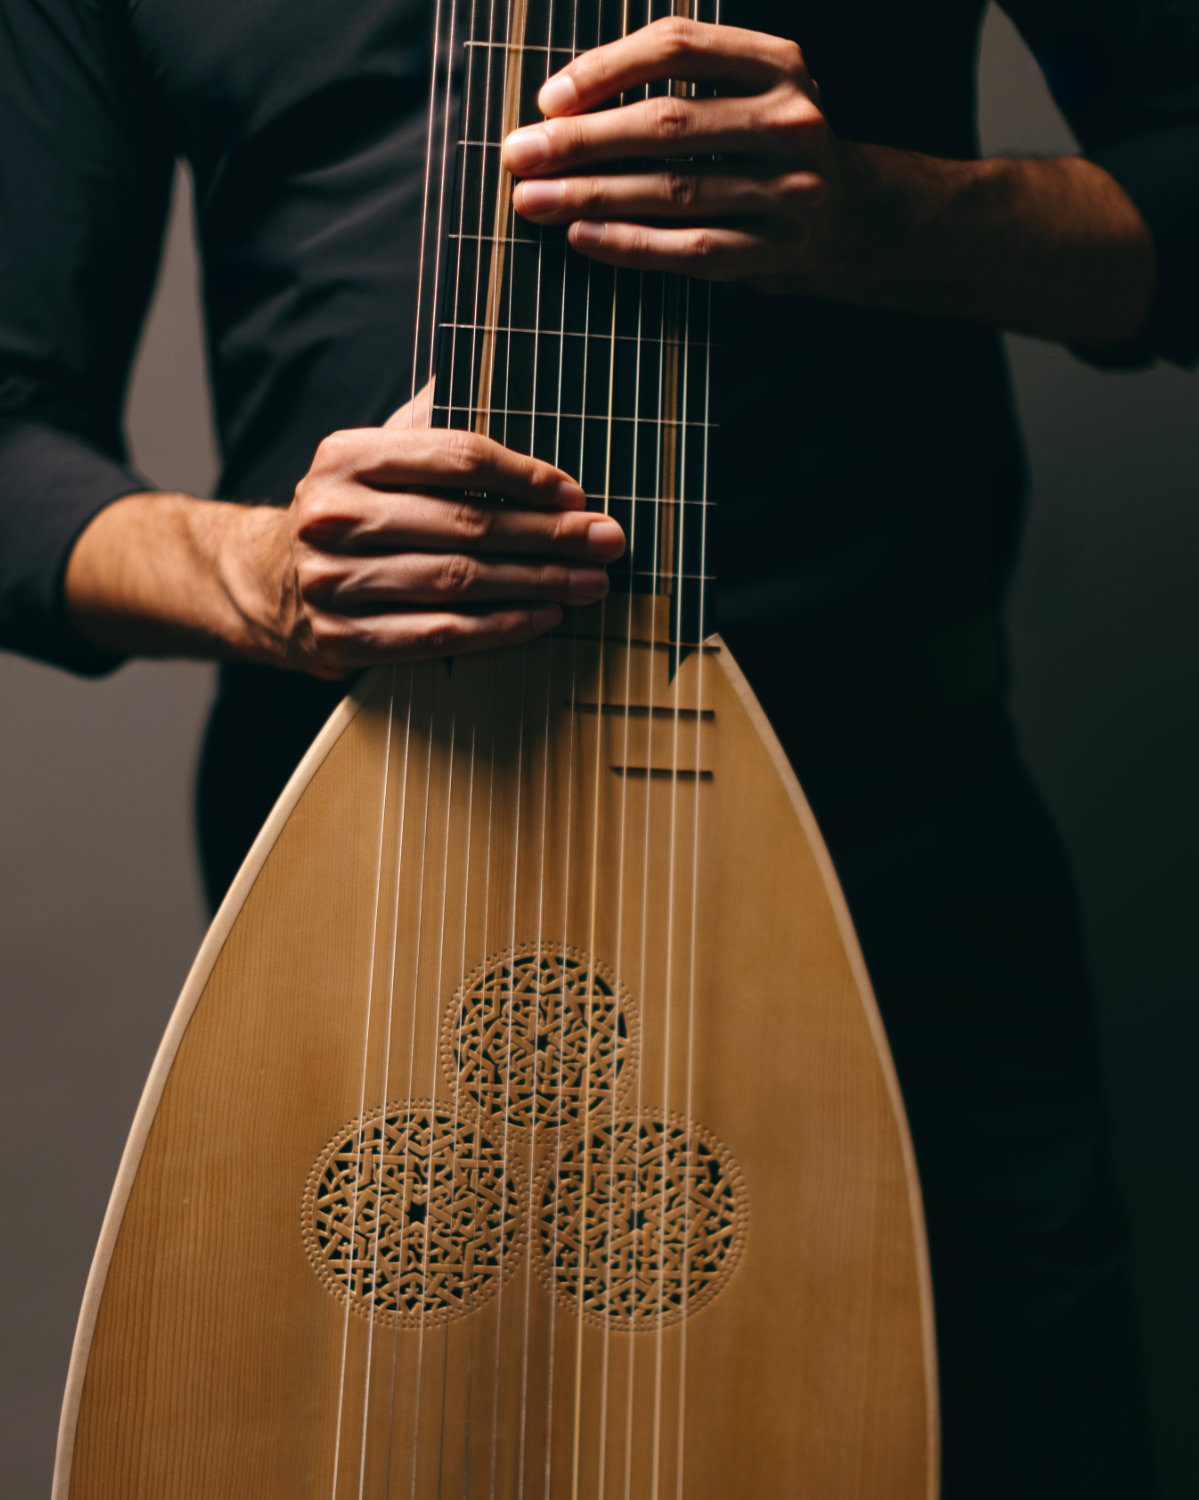
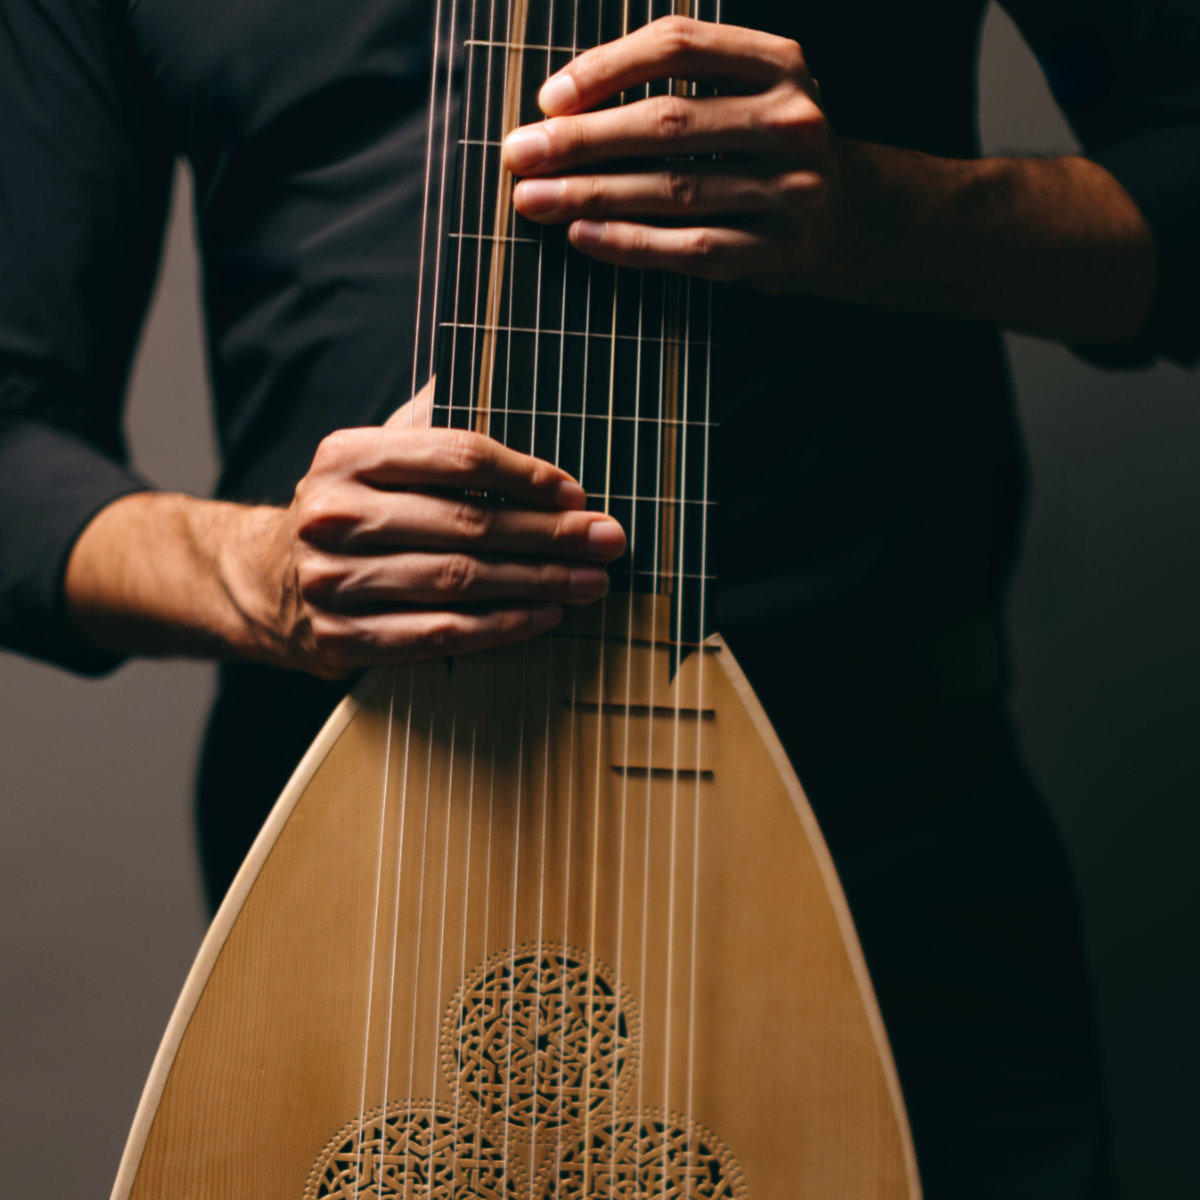
bio changes with photo

diff --git a/assets/js/main.js b/assets/js/main.js
@@ -11,11 +11,10 @@
       'nav.home':'Início','nav.about':'Sobre','nav.guitar':'Guitarra','nav.lute':'Alaúde',
       'nav.dates':'Datas','nav.contact':'Contacto','nav.video':'Vídeo',
       'hero.eyebrow':'Guitarra Clássica & Alaúde · Viena','hero.cta':'Próximos concertos →',
-      'home.more':'Ver mais →',
       'home.about':'André Ferreira é um guitarrista e alaudista português radicado em Viena, atuando por toda a Europa como solista, músico de câmara e instrumentista de orquestra.',
-      'home.guitar':'Repertório, instrumentos e projetos em torno da guitarra clássica.',
-      'home.lute':'Alaúde, teorba e instrumentos históricos de corda dedilhada.',
-      'home.contact':'Reservas, masterclasses e pedidos de imprensa.',
+      'home.about.d':'Biografia, formação e as salas e festivais onde tem atuado.',
+      'home.guitar.d':'Repertório, instrumentos e projetos em torno da guitarra clássica.',
+      'home.lute.d':'Alaúde, teorba e outros instrumentos históricos de corda dedilhada.',
       'home.dates.h':'Próximos Concertos','home.dates.all':'Todas as datas →',
       'bio.body':
         '<p>André Ferreira é um guitarrista e alaudista português radicado em Viena. Músico versátil, com uma sólida formação tanto na performance histórica como na moderna, o seu tocar reflete um envolvimento profundo com as possibilidades expressivas das cordas dedilhadas.</p>' +
@@ -38,11 +37,10 @@
       'nav.home':'Home','nav.about':'About','nav.guitar':'Guitar','nav.lute':'Lute',
       'nav.dates':'Dates','nav.contact':'Contact','nav.video':'Video',
       'hero.eyebrow':'Classical Guitar & Lute · Vienna','hero.cta':'Upcoming concerts →',
-      'home.more':'Read more →',
       'home.about':'André Ferreira is a Portuguese guitarist and lutenist based in Vienna, performing across Europe as a soloist, chamber musician and orchestral player.',
-      'home.guitar':'Repertoire, instruments and projects on the classical guitar.',
-      'home.lute':'Lute, theorbo and historical plucked string instruments.',
-      'home.contact':'Booking, masterclasses and press enquiries.',
+      'home.about.d':'Biography, training, and the halls and festivals he has played.',
+      'home.guitar.d':'Repertoire, instruments and projects on the classical guitar.',
+      'home.lute.d':'Lute, theorbo and other historical plucked string instruments.',
       'home.dates.h':'Upcoming Concerts','home.dates.all':'All dates →',
       'bio.body':
         '<p>André Ferreira is a Portuguese guitarist and lutenist based in Vienna. A versatile musician with a strong foundation in both historical and modern performance, his playing reflects a deep engagement with the expressive possibilities of plucked strings.</p>' +
@@ -65,11 +63,10 @@
       'nav.home':'Start','nav.about':'Über','nav.guitar':'Gitarre','nav.lute':'Laute',
       'nav.dates':'Termine','nav.contact':'Kontakt','nav.video':'Video',
       'hero.eyebrow':'Klassische Gitarre & Laute · Wien','hero.cta':'Kommende Konzerte →',
-      'home.more':'Mehr lesen →',
       'home.about':'André Ferreira ist ein portugiesischer Gitarrist und Lautenist mit Sitz in Wien und tritt in ganz Europa als Solist, Kammermusiker und Orchestermusiker auf.',
-      'home.guitar':'Repertoire, Instrumente und Projekte rund um die klassische Gitarre.',
-      'home.lute':'Laute, Theorbe und historische Zupfinstrumente.',
-      'home.contact':'Buchung, Meisterkurse und Presseanfragen.',
+      'home.about.d':'Biografie, Ausbildung und die Säle und Festivals, in denen er gespielt hat.',
+      'home.guitar.d':'Repertoire, Instrumente und Projekte rund um die klassische Gitarre.',
+      'home.lute.d':'Laute, Theorbe und weitere historische Zupfinstrumente.',
       'home.dates.h':'Kommende Konzerte','home.dates.all':'Alle Termine →',
       'bio.body':
         '<p>André Ferreira ist ein portugiesischer Gitarrist und Lautenist mit Sitz in Wien. Als vielseitiger Musiker mit einem soliden Fundament in historischer wie moderner Aufführungspraxis zeugt sein Spiel von einer tiefen Auseinandersetzung mit den Ausdrucksmöglichkeiten der Zupfinstrumente.</p>' +

diff --git a/index.html b/index.html
@@ -42,27 +42,27 @@
     </div>
   </section>
 
-  <section class="teasers">
-    <a class="teaser" href="pages/about.html">
-      <h2 data-i18n="nav.about">Sobre</h2>
-      <p data-i18n="home.about">André Ferreira é um guitarrista e alaudista português radicado em Viena, atuando por toda a Europa como solista, músico de câmara e instrumentista de orquestra.</p>
-      <span class="more" data-i18n="home.more">Ver mais →</span>
-    </a>
-    <a class="teaser" href="pages/guitar.html">
-      <h2 data-i18n="nav.guitar">Guitarra</h2>
-      <p data-i18n="home.guitar">Repertório, instrumentos e projetos em torno da guitarra clássica.</p>
-      <span class="more" data-i18n="home.more">Ver mais →</span>
-    </a>
-    <a class="teaser" href="pages/lute.html">
-      <h2 data-i18n="nav.lute">Alaúde</h2>
-      <p data-i18n="home.lute">Alaúde, teorba e instrumentos históricos de corda dedilhada.</p>
-      <span class="more" data-i18n="home.more">Ver mais →</span>
-    </a>
-    <a class="teaser" href="pages/contact.html">
-      <h2 data-i18n="nav.contact">Contacto</h2>
-      <p data-i18n="home.contact">Reservas, masterclasses e pedidos de imprensa.</p>
-      <span class="more" data-i18n="home.more">Ver mais →</span>
-    </a>
+  <section class="intro">
+    <div class="intro-photo">
+      <img src="assets/img/bio.jpg" alt="André Ferreira a tocar alaúde" loading="lazy">
+    </div>
+    <div class="intro-body">
+      <p class="intro-text" data-i18n="home.about">André Ferreira é um guitarrista e alaudista português radicado em Viena, atuando por toda a Europa como solista, músico de câmara e instrumentista de orquestra.</p>
+      <div class="intro-links">
+        <a class="ilink" href="pages/about.html">
+          <span class="ilabel" data-i18n="nav.about">Sobre</span>
+          <span class="idesc" data-i18n="home.about.d">Biografia, formação e as salas e festivais onde tem atuado.</span>
+        </a>
+        <a class="ilink" href="pages/guitar.html">
+          <span class="ilabel" data-i18n="nav.guitar">Guitarra</span>
+          <span class="idesc" data-i18n="home.guitar.d">Repertório, instrumentos e projetos em torno da guitarra clássica.</span>
+        </a>
+        <a class="ilink" href="pages/lute.html">
+          <span class="ilabel" data-i18n="nav.lute">Alaúde</span>
+          <span class="idesc" data-i18n="home.lute.d">Alaúde, teorba e outros instrumentos históricos de corda dedilhada.</span>
+        </a>
+      </div>
+    </div>
   </section>
 
   <section class="concerts-wrap">

diff --git a/assets/css/style.css b/assets/css/style.css
@@ -109,15 +109,26 @@ radial-gradient(circle at 68% 32%, #3a322a 0%, #1c1712 62%, #100d0a 100%); }
 .page-head h1{ font-family:var(--font-display); font-weight:400; font-size:clamp(2.4rem,6vw,4rem);
   line-height:1; letter-spacing:.02em; text-transform:uppercase; margin:0; }
 
-/* home: one card per section, each linking to its page */
-.teasers{ padding:clamp(44px,7vw,72px) var(--pad); display:grid; gap:1px;
-  grid-template-columns:repeat(auto-fit,minmax(260px,1fr)); background:var(--line); border-top:1px solid var(--line); }
-.teaser{ background:var(--bg); padding:clamp(24px,3vw,34px); text-decoration:none; color:inherit;
-  display:flex; flex-direction:column; gap:12px; transition:background .18s; }
-.teaser:hover, .teaser:focus-visible{ background:#141210; }
-.teaser h2{ font-family:var(--font-display); font-weight:500; font-size:1.6rem; margin:0; }
-.teaser p{ margin:0; font-size:.95rem; line-height:1.6; color:var(--sub); max-width:38ch; }
-.teaser .more{ margin-top:auto; font-size:.78rem; letter-spacing:.06em; text-transform:uppercase; color:var(--wood); }
+/* home: photo left, introduction and the three section links right.
+   Sits on the page background — no cards, no lighter panels. */
+.intro{ padding:clamp(44px,7vw,72px) var(--pad); border-top:1px solid var(--line);
+  display:grid; grid-template-columns:0.72fr 1fr; gap:clamp(28px,5vw,64px); align-items:start; }
+.intro-photo{ aspect-ratio:4/5; border-radius:4px; overflow:hidden; border:1px solid var(--line); background:#131010; }
+.intro-photo img{ width:100%; height:100%; object-fit:cover; }
+.intro-text{ margin:0 0 clamp(22px,3vw,32px); font-size:1.12rem; line-height:1.75; color:var(--ink); max-width:52ch; }
+.intro-links{ display:flex; flex-direction:column; border-top:1px solid var(--line); }
+.ilink{ display:block; text-decoration:none; color:inherit; padding:17px 0;
+  border-bottom:1px solid var(--line); transition:padding-left .18s; }
+.ilink:hover, .ilink:focus-visible{ padding-left:8px; }
+.ilabel{ display:block; font-size:.78rem; letter-spacing:.08em; text-transform:uppercase;
+  color:var(--wood); margin-bottom:7px; }
+.ilabel::after{ content:' →'; }
+.idesc{ display:block; font-size:.95rem; line-height:1.6; color:var(--sub); max-width:48ch; }
+.ilink:hover .idesc{ color:var(--ink); }
+@media(max-width:760px){
+  .intro{ grid-template-columns:1fr; }
+  .intro-photo{ max-width:340px; }
+}
 
 /* a cta used as a standalone block rather than inside the hero */
 .cta-block{ display:inline-flex; margin-top:30px; }
